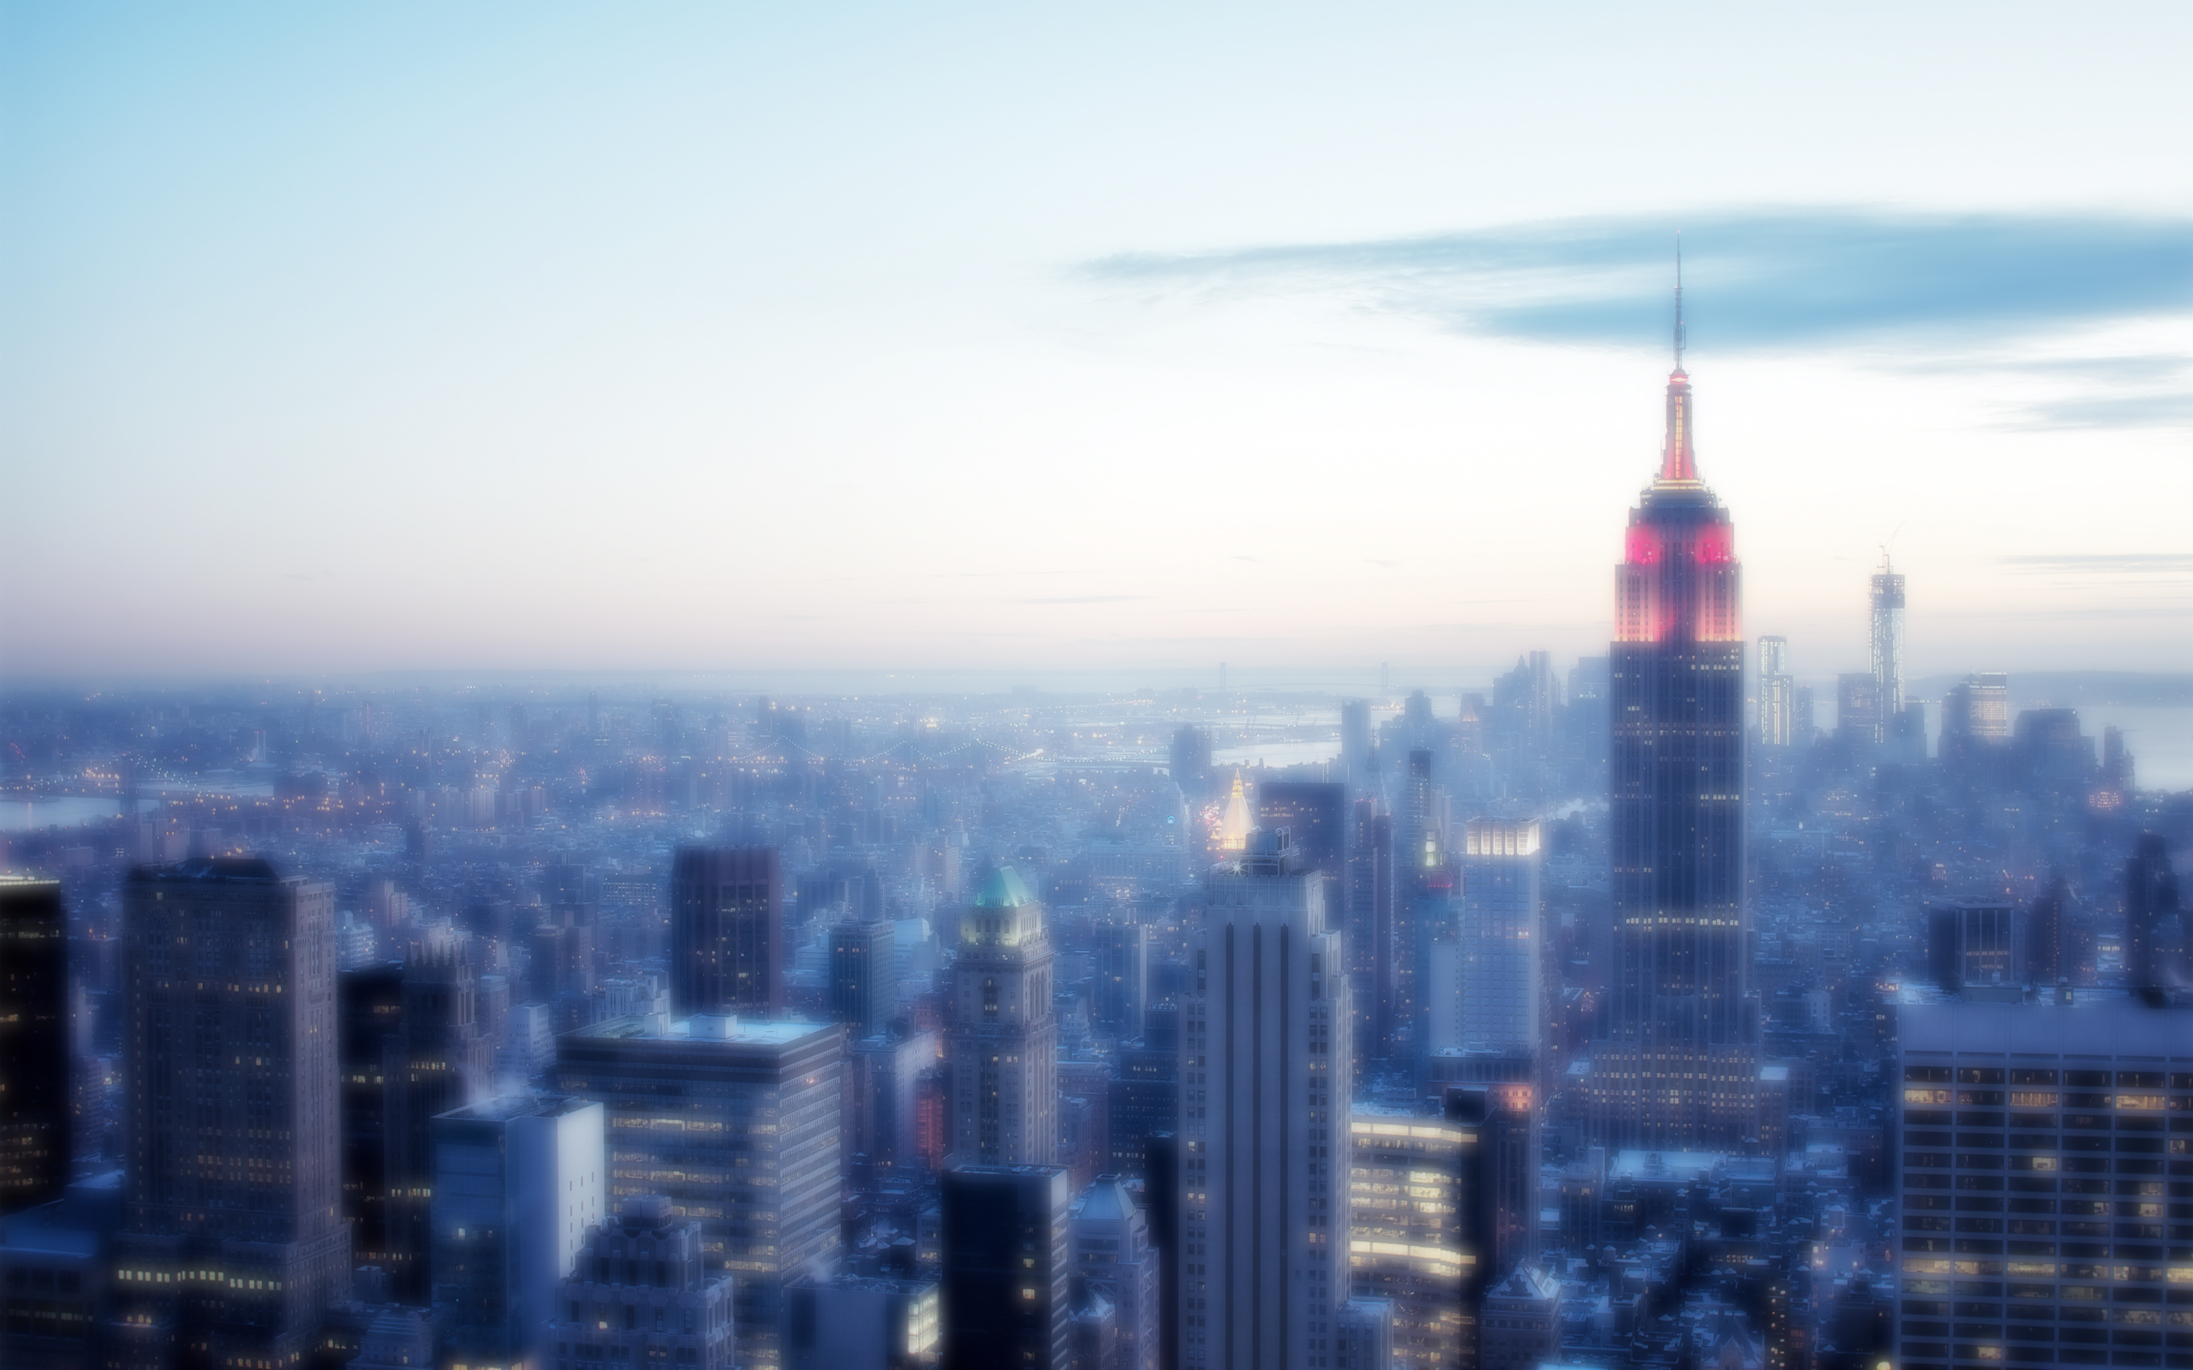
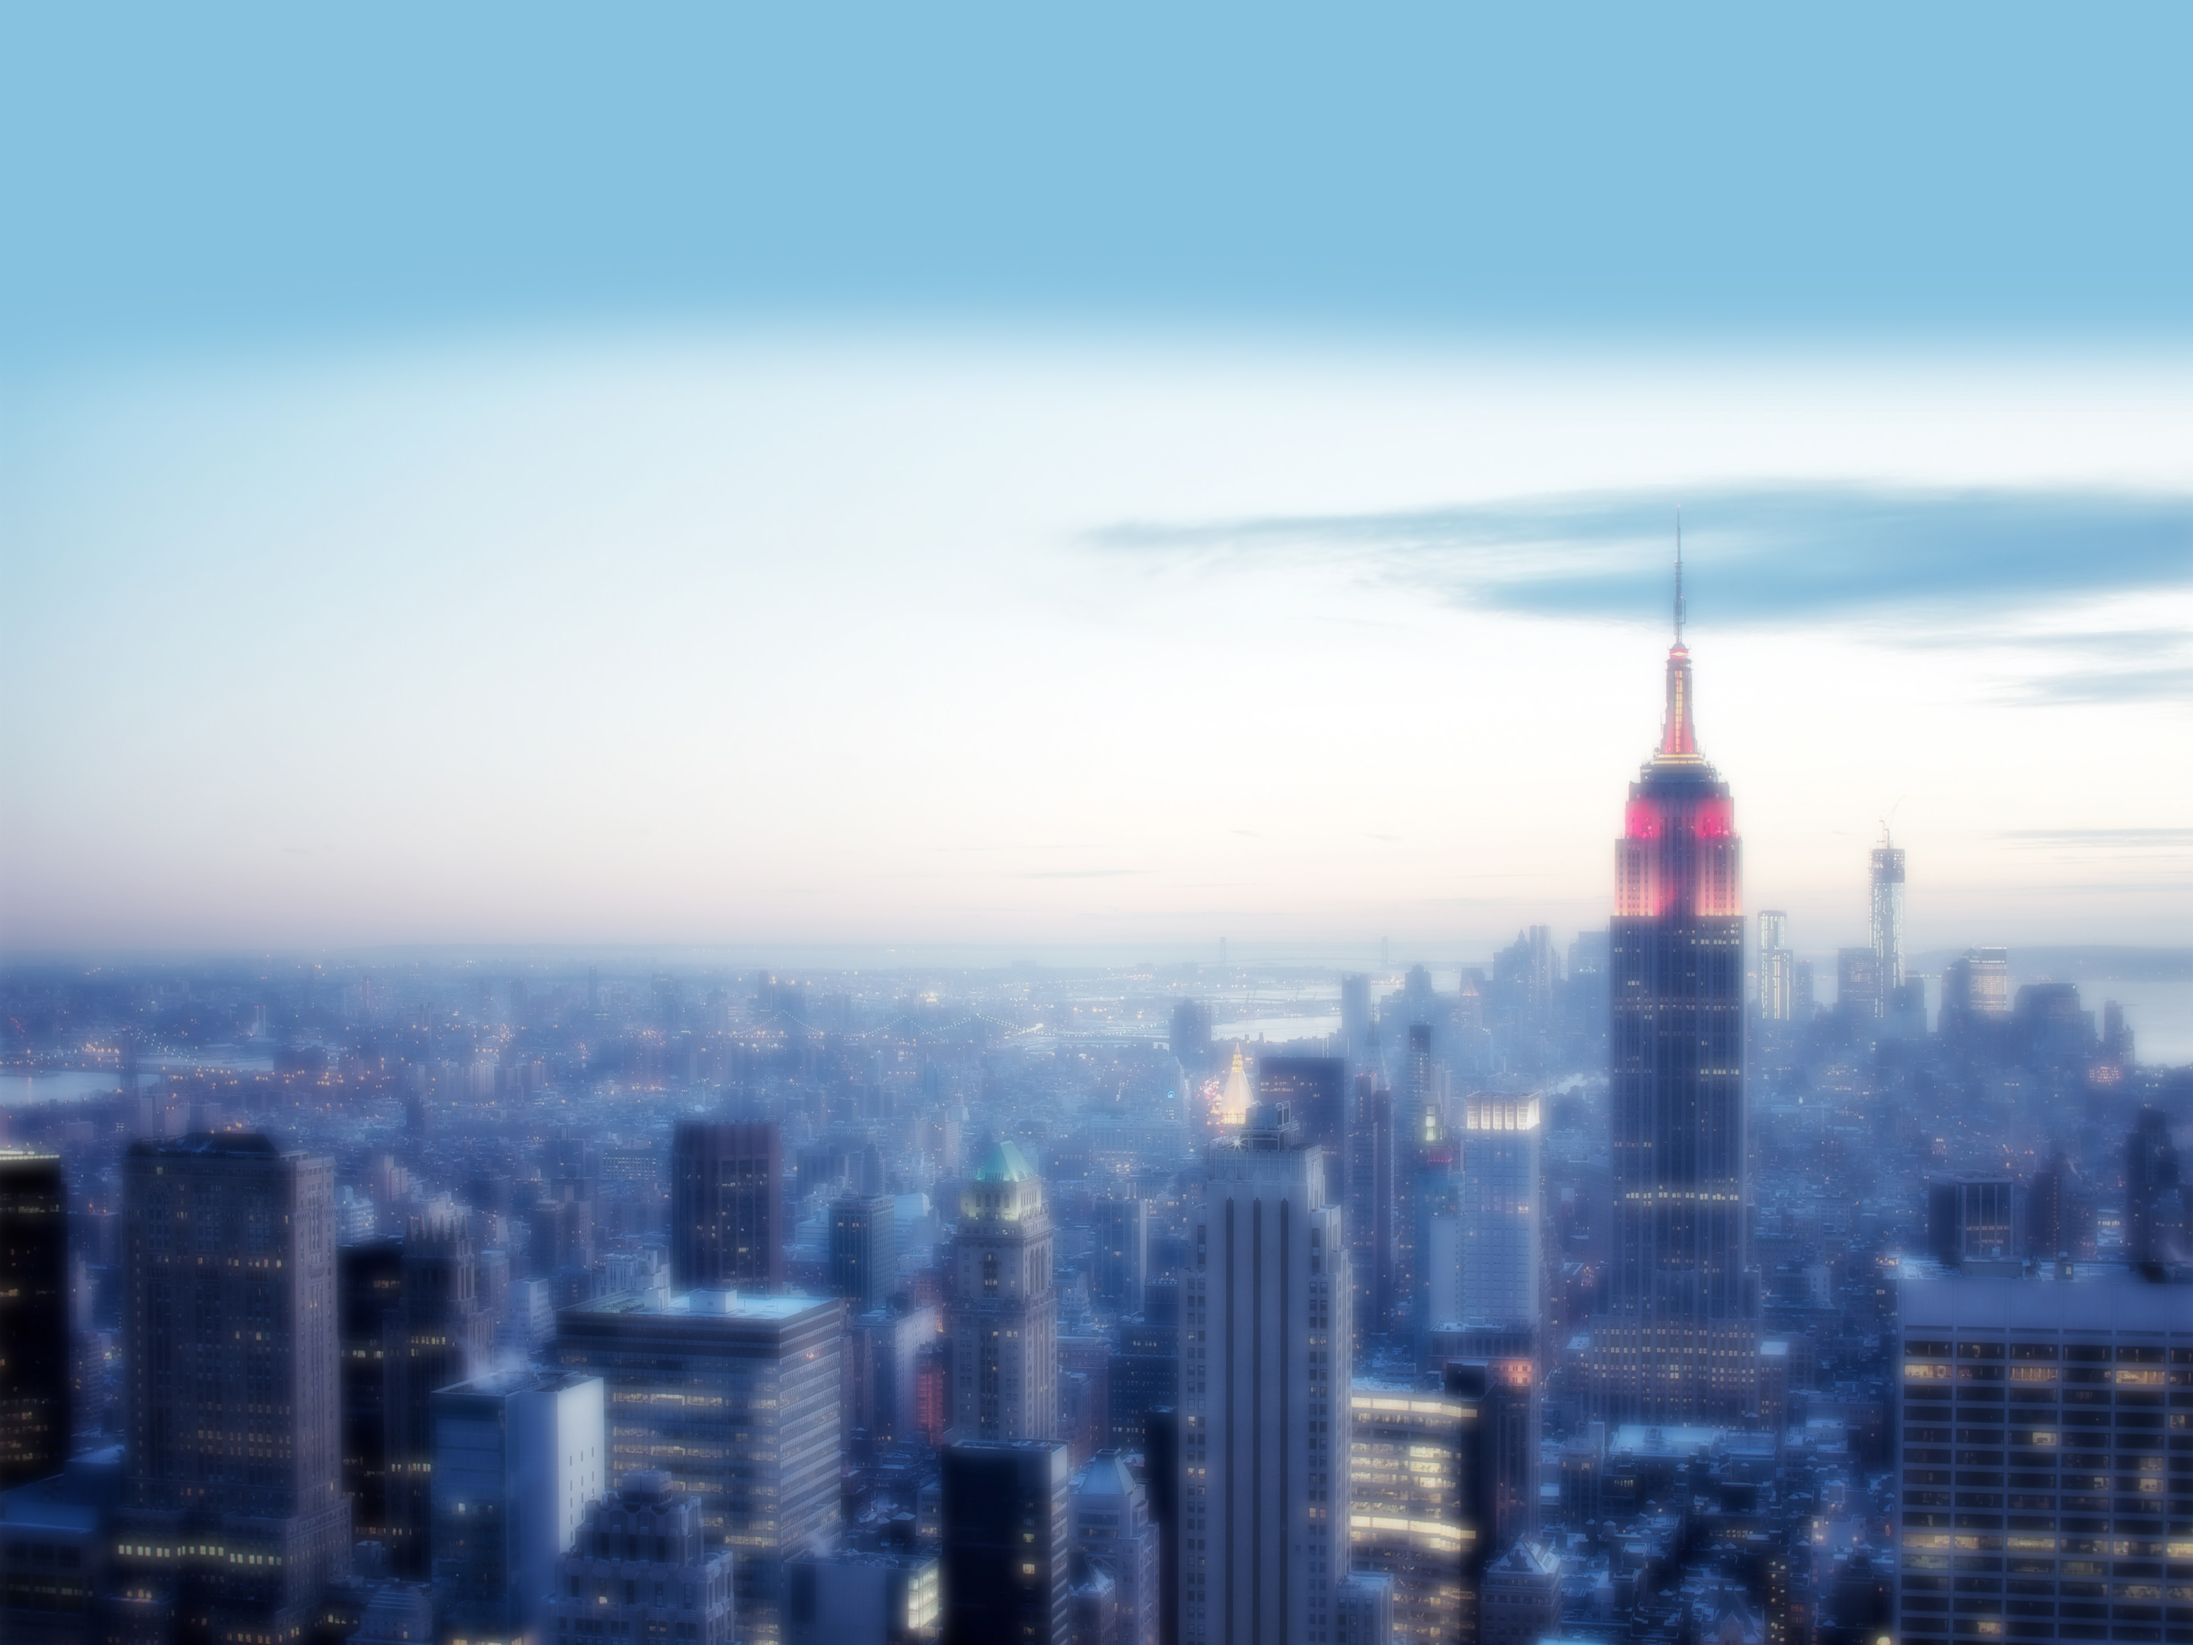
bg

diff --git a/stylesheets/stylesheet.css b/stylesheets/stylesheet.css
@@ -57,7 +57,8 @@ table {
 body {
   font-size: 15px;
   line-height: 1.5; 
-  background: url(../images/new-york-city.jpg) no-repeat center right fixed;
+  background: url(../images/new-york-city.jpg) no-repeat center bottom fixed #87c2e0;
+  background-size: 100%;
   font-family: Arial, serif;
   font-weight: 400;
   color: #222;
